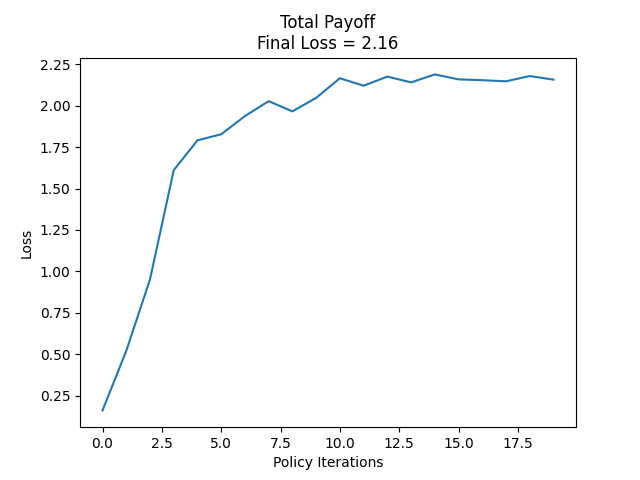
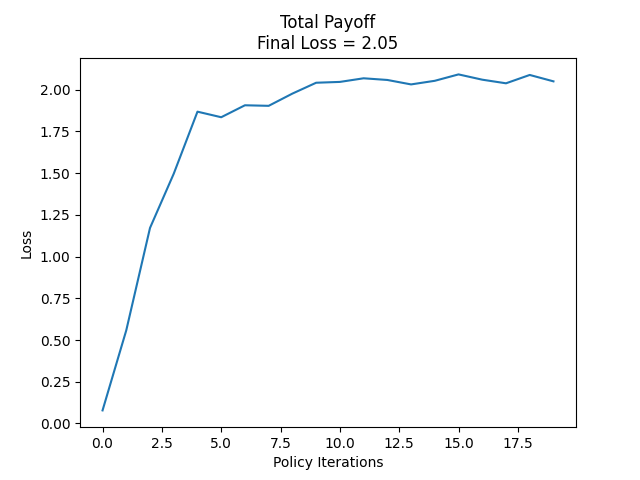
adjust minor parameters

diff --git a/pipeline.py b/pipeline.py
@@ -127,7 +127,7 @@ def main(args, json_name = ""):
     ## Evaluation
     ## TODO: Implement it!!!
     
-JSON_NAME = "10car_5region_ppo" #"12car_4region_48charger_15min_fullycharged_nyc_ppo" #"1car_2region_ppo" #"12car_4region_48charger_15min_demandScale2_fullycharged_nyc_d-closest" #"12car_4region_2charger_15min_fullycharged_workair_nyc_ppo" #"1car_2region_ppo" #"200car_4region_nyc_ppo" #"100car_3region_ppo" # "1car_2region_ppo" #"1car_3region_patience_ppo" #"1car_3region_dp" #
+JSON_NAME = "10car_5region_d-closest" #"12car_4region_48charger_15min_fullycharged_nyc_ppo" #"1car_2region_ppo" #"12car_4region_48charger_15min_demandScale2_fullycharged_nyc_d-closest" #"12car_4region_2charger_15min_fullycharged_workair_nyc_ppo" #"1car_2region_ppo" #"200car_4region_nyc_ppo" #"100car_3region_ppo" # "1car_2region_ppo" #"1car_3region_patience_ppo" #"1car_3region_dp" #
 
 with open(f"Args/{JSON_NAME}.json", "r") as f:
     args = json.load(f)
